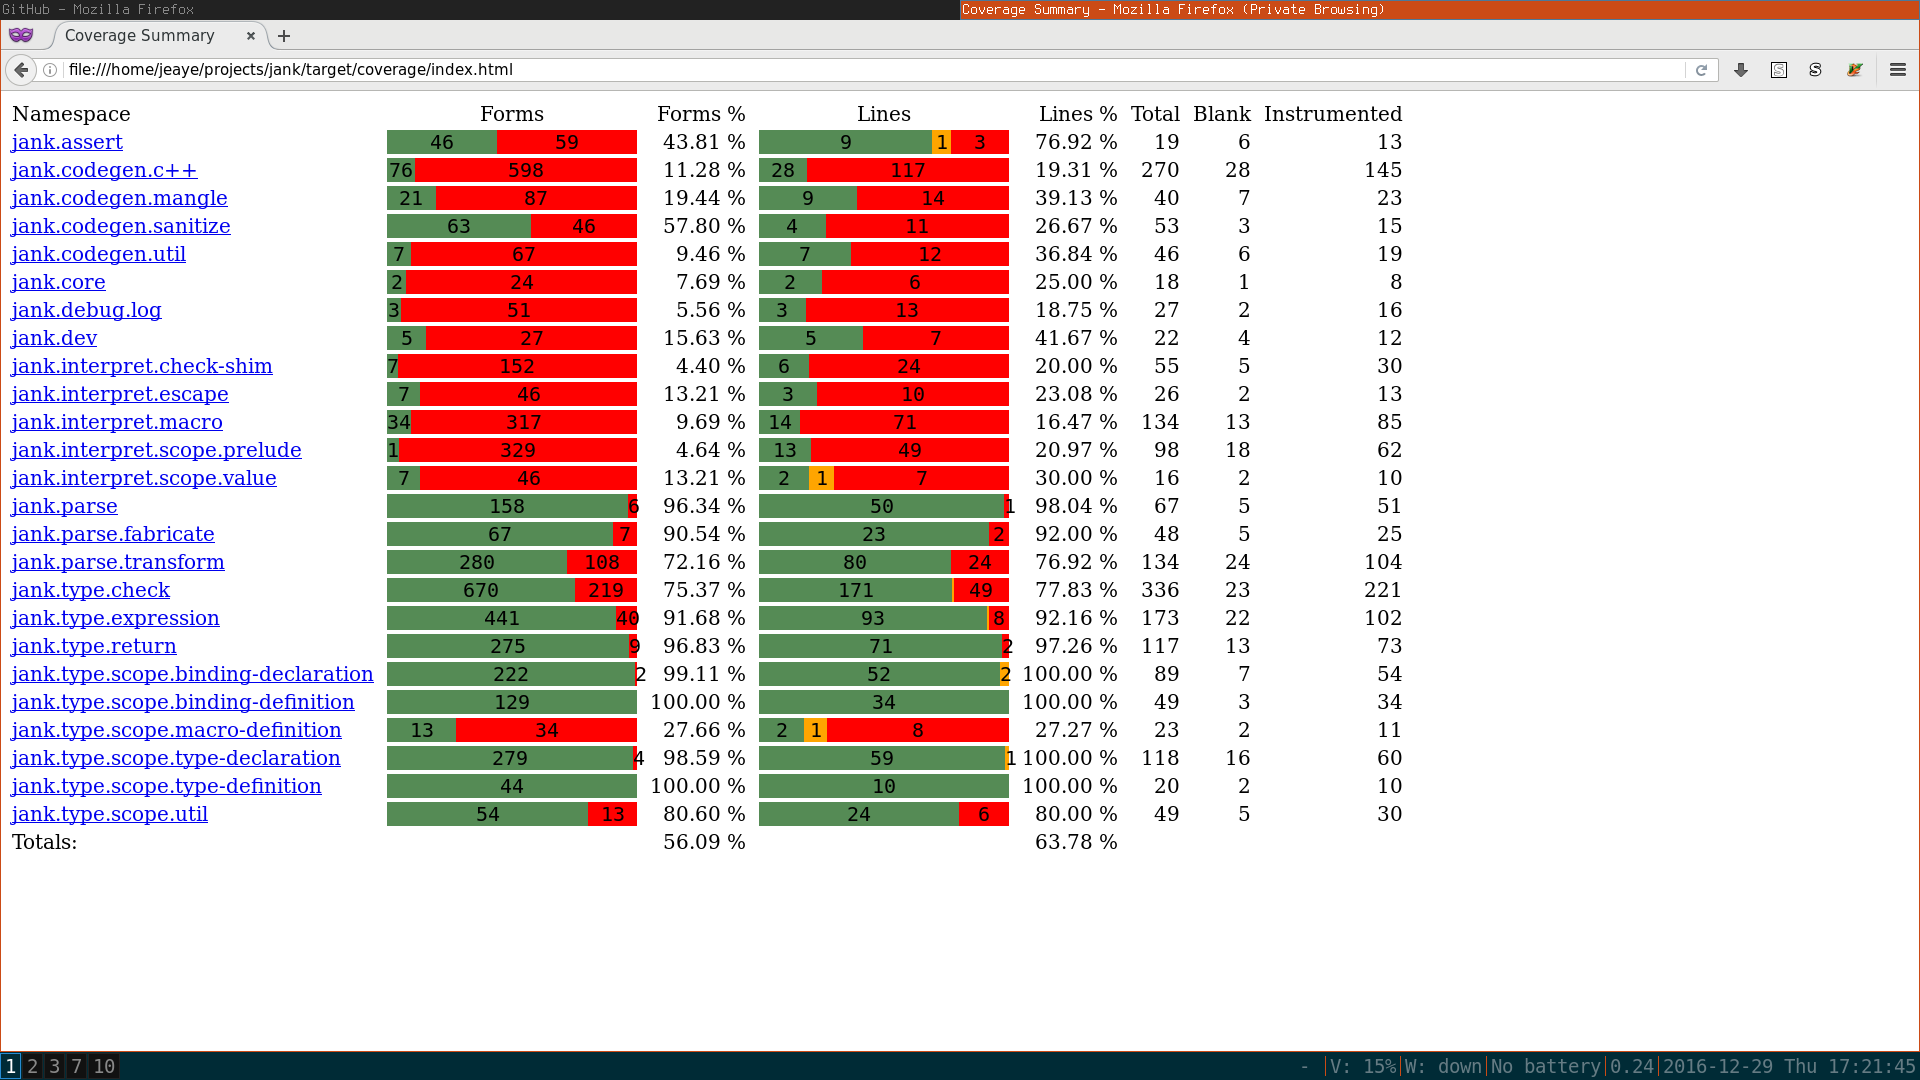
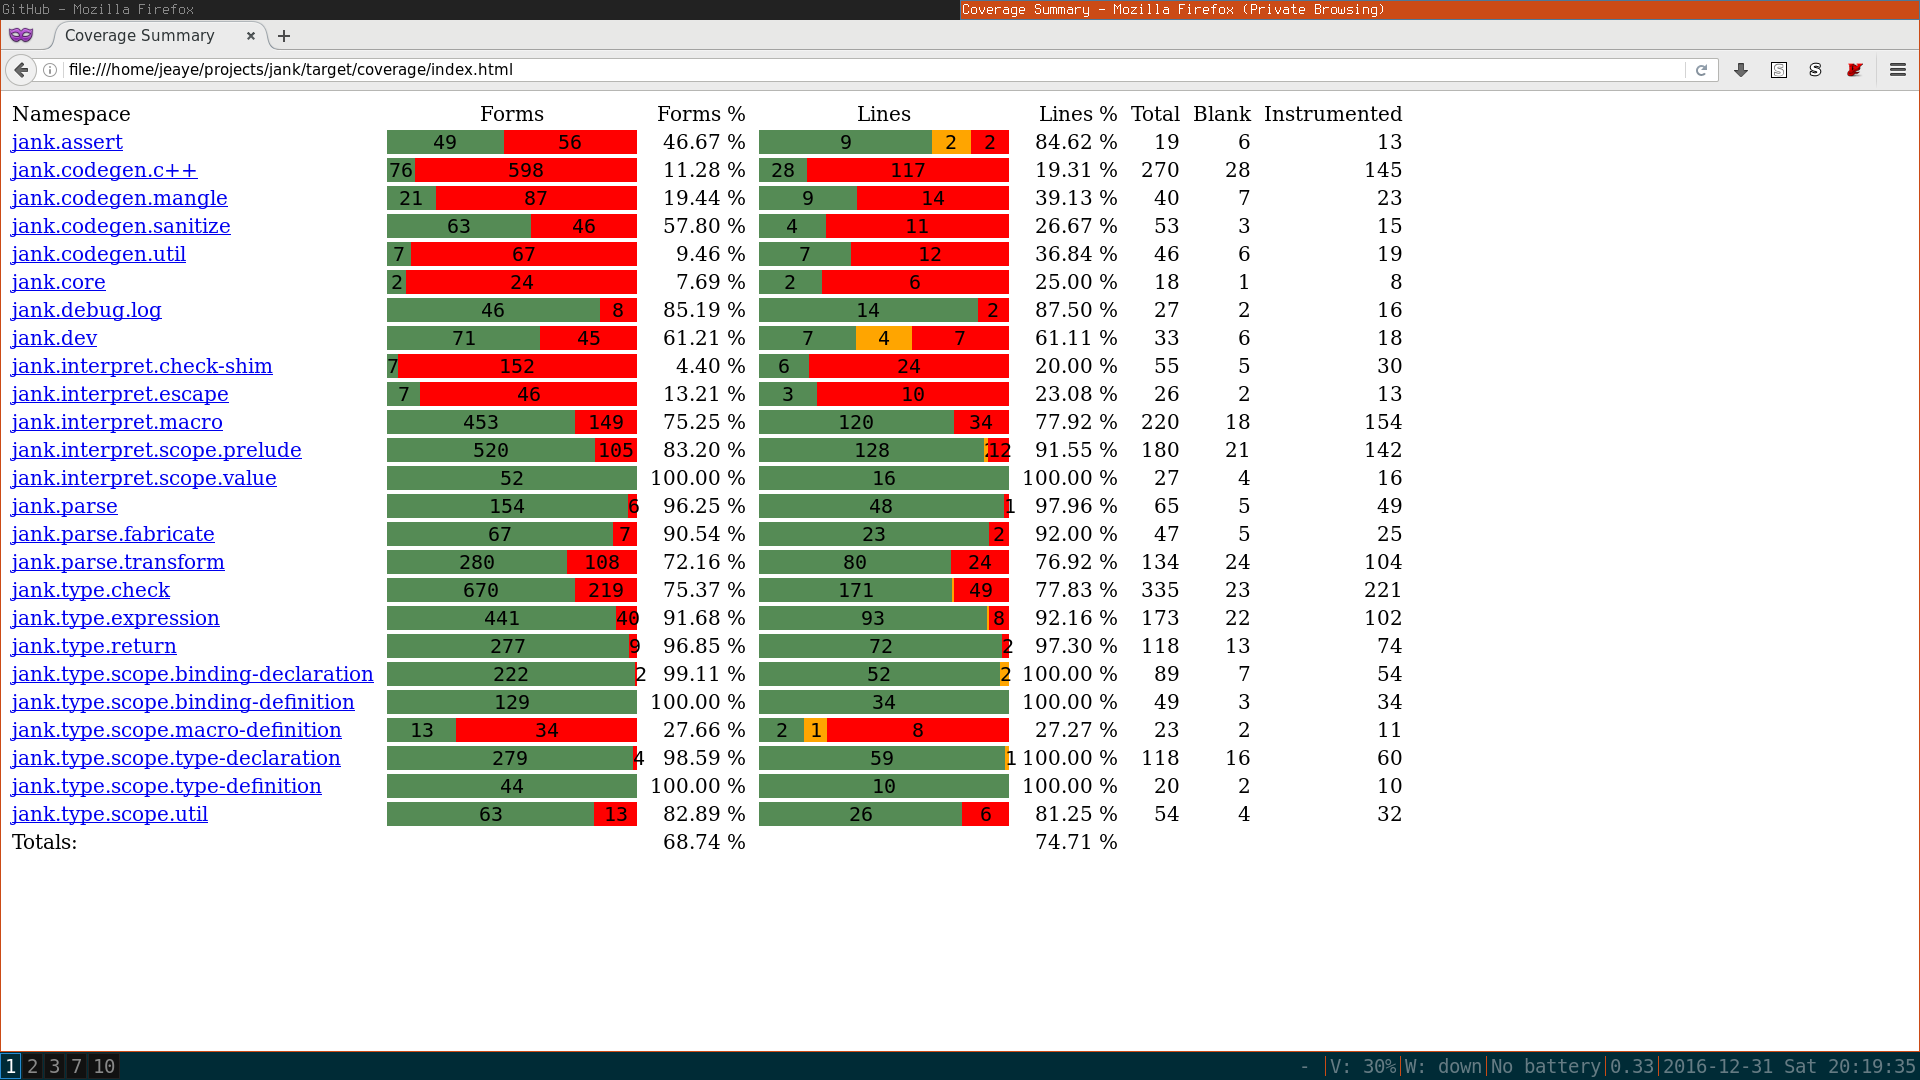
Update coverage index figure

diff --git a/_posts/2016-12-29-clojure-test-coverage.md b/_posts/2016-12-29-clojure-test-coverage.md
@@ -49,11 +49,11 @@ see something like this:
      src="{{ site.blog_url }}/img/clojure-test-coverage/cloverage-index.png"/>
 </a>
 <figcaption>
-This is the output from the first run of cloverage on
-<a href="http://jank-lang.org/">jank</a>. From this, we can see that there was reasonable
-coverage for the parsing and type checking tests, but it clearly had no tests
-for interpreting and codegen. It's possible to get a more detailed view of any
-of these files by clicking one.
+This is the output from the first run of cloverage on <a
+href="http://jank-lang.org/">jank</a>. From this, we can see that there was good
+coverage for the parsing and type checking tests, reasonable coverage for
+interpreting, but it clearly had no tests for codegen. It's possible to get a
+more detailed view of any of these files by clicking one.
 </figcaption>
 </figure>
 
